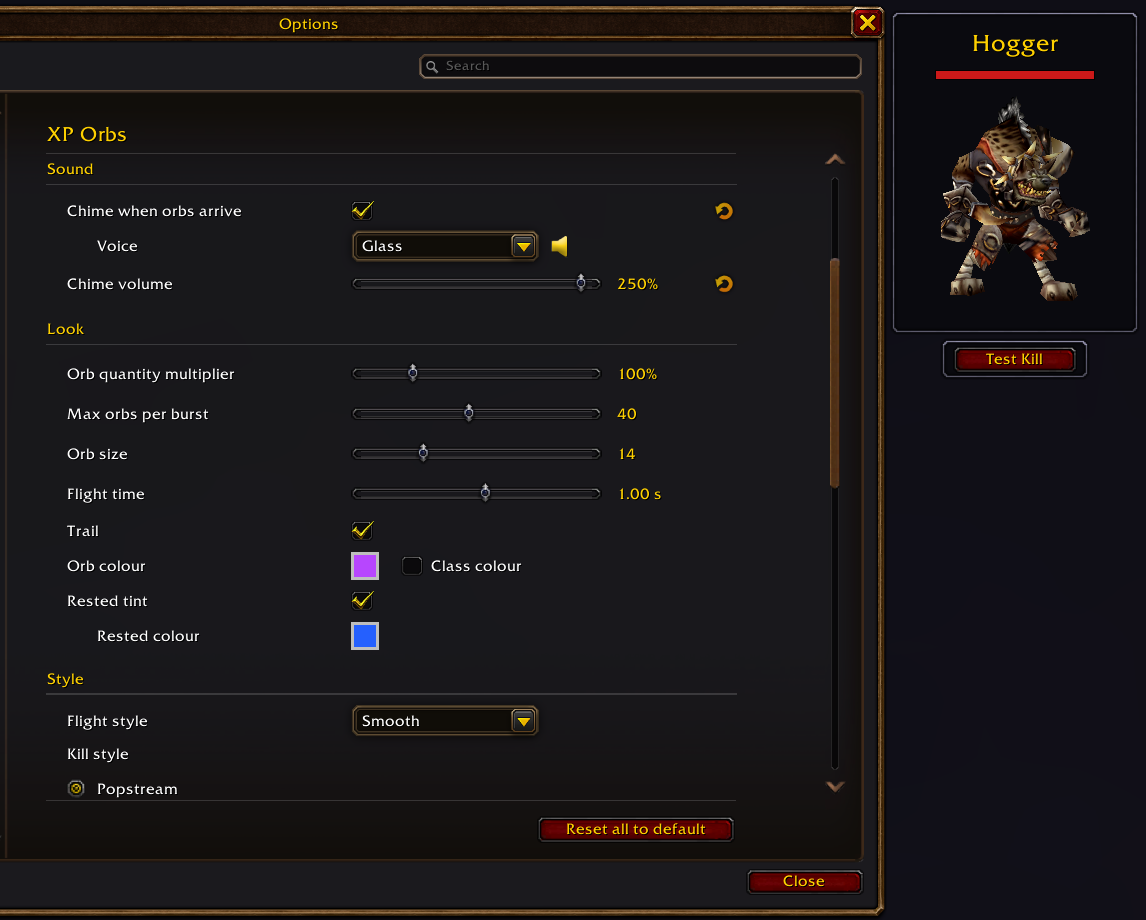
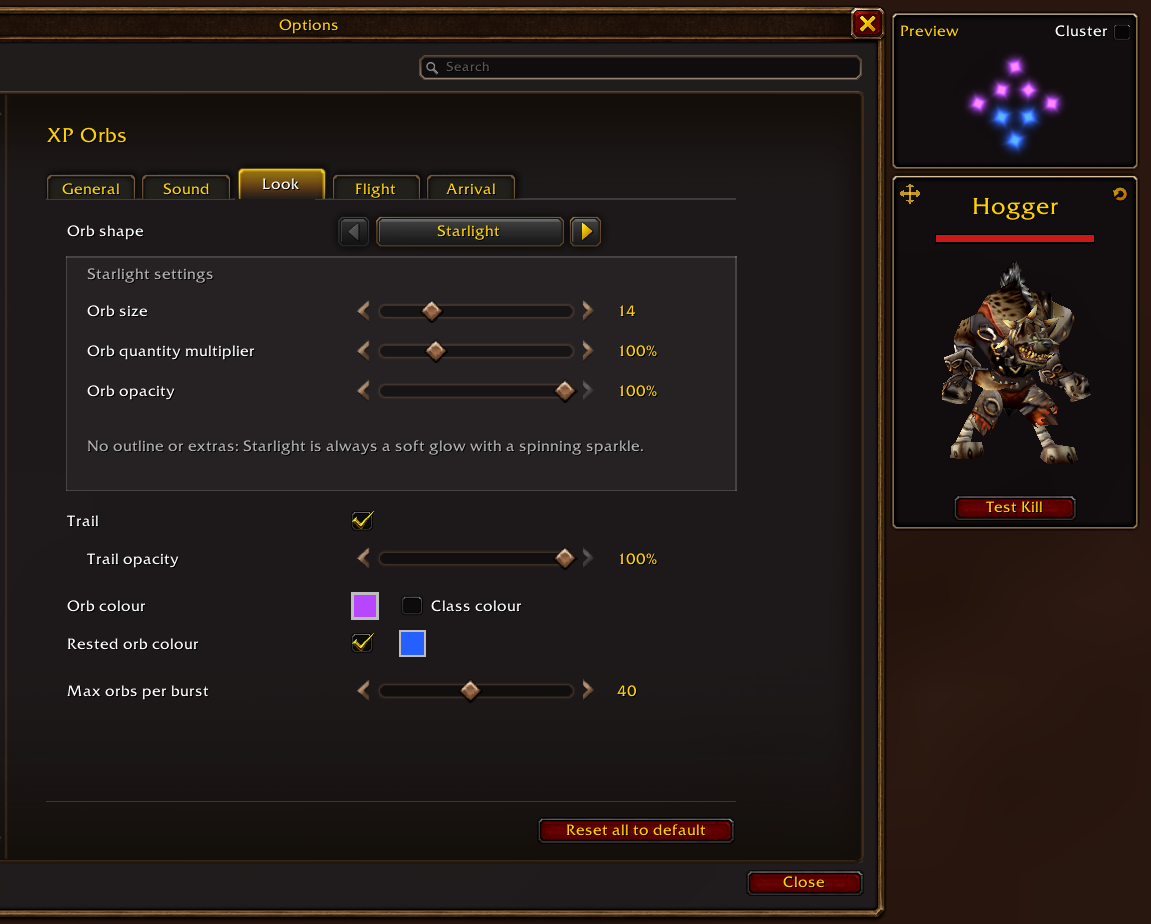
chore(release): 1.4.0
Version 1.4.0 (toc, pyproject, uv.lock), CHANGELOG dated, options screenshot of
the tabbed panel, public ROADMAP moved on past 1.4 (shapes and chimes shipped).

diff --git a/ROADMAP.md b/ROADMAP.md
@@ -8,19 +8,15 @@ This is a rough plan subject to change. The order and contents will change as fe
 
 ## Next
 
-- **Works with more UIs.** The orbs and the glow find the XP bars of EllesmereUI, FlareUI, DaylightUI and Smooth
-  Experience Bar on their own. If no XP bar can be found at all, a small window asks you to pick yours and lets you
-  set the glow's direction and position.
-- **Chime volume.** A volume slider for the arrival chime, from quiet up to 250%.
-- **Easier-to-read code.** Clearer names and more comments throughout, for anyone who wants to read or change it.
-- **Better starting points.** Quest XP starts at the quest window, exploration XP starts at the chat message, and so
-  on, instead of every non-kill gain starting at the middle of the screen.
-- **Orb Flight paths.** Choose how the orbs fly: Smooth (today's path), Chaos (more erratic) or Helix (spiralling).
+- **Per-character profiles.** Let a character use its own settings, or share a named profile with others, instead of
+  every character on the account sharing one set.
+- **A second orb colour.** An optional secondary colour, with a slider for how the orbs split between the two (rested
+  orbs keep their own colour).
+- **Tidier code.** The two biggest files split into smaller ones, so the addon stays easy to read and change.
 
 ## Later
 
-- New orb shapes and bloom effects.
-- More chime sounds, such as a soft brushed "shew".
+- More orb shapes and bloom effects.
 - An option for the orbs to fly to your character instead of the XP bar.
 
 ## Requests and bugs

diff --git a/CHANGELOG.md b/CHANGELOG.md
@@ -1,6 +1,6 @@
 # Changelog
 
-## 1.4.0 (unreleased)
+## 1.4.0 (2026-11-26)
 
 ### Added
 
